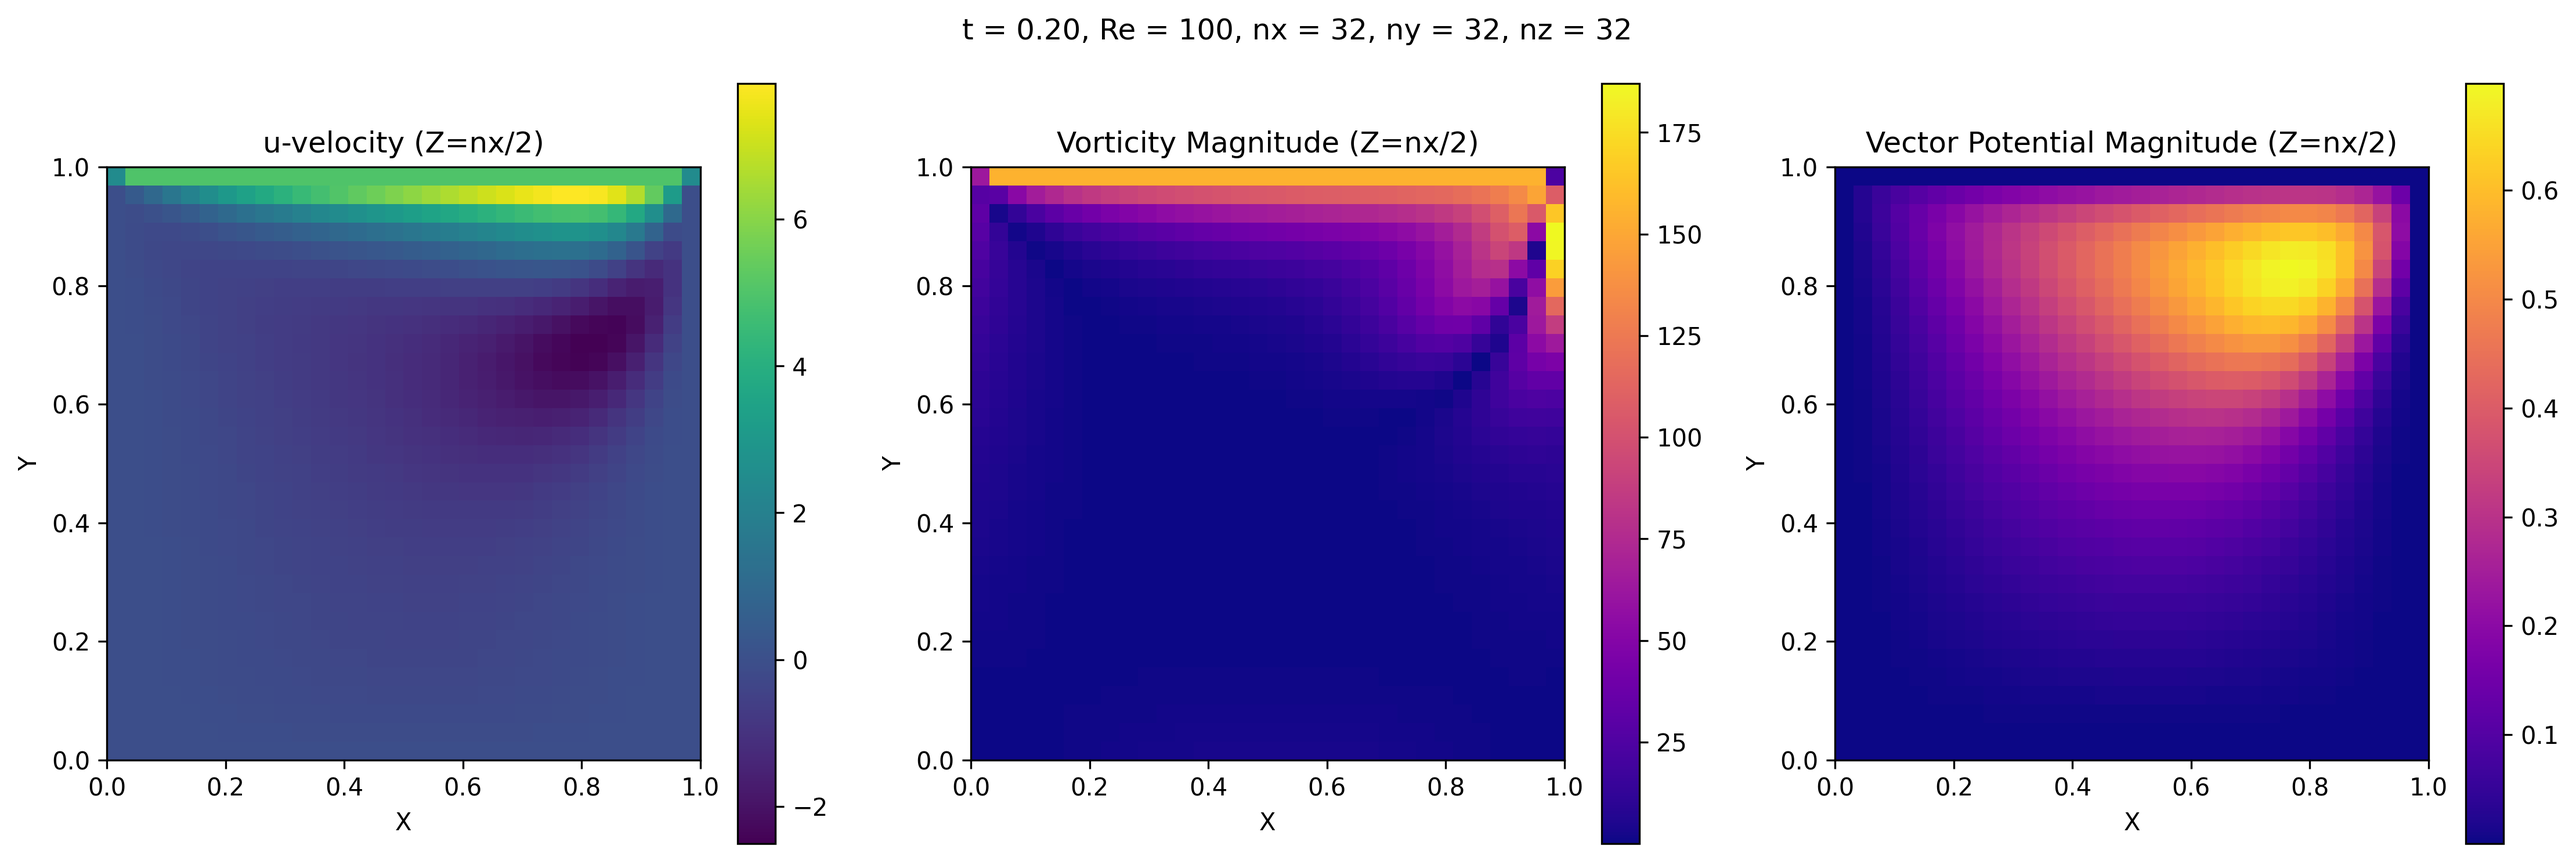
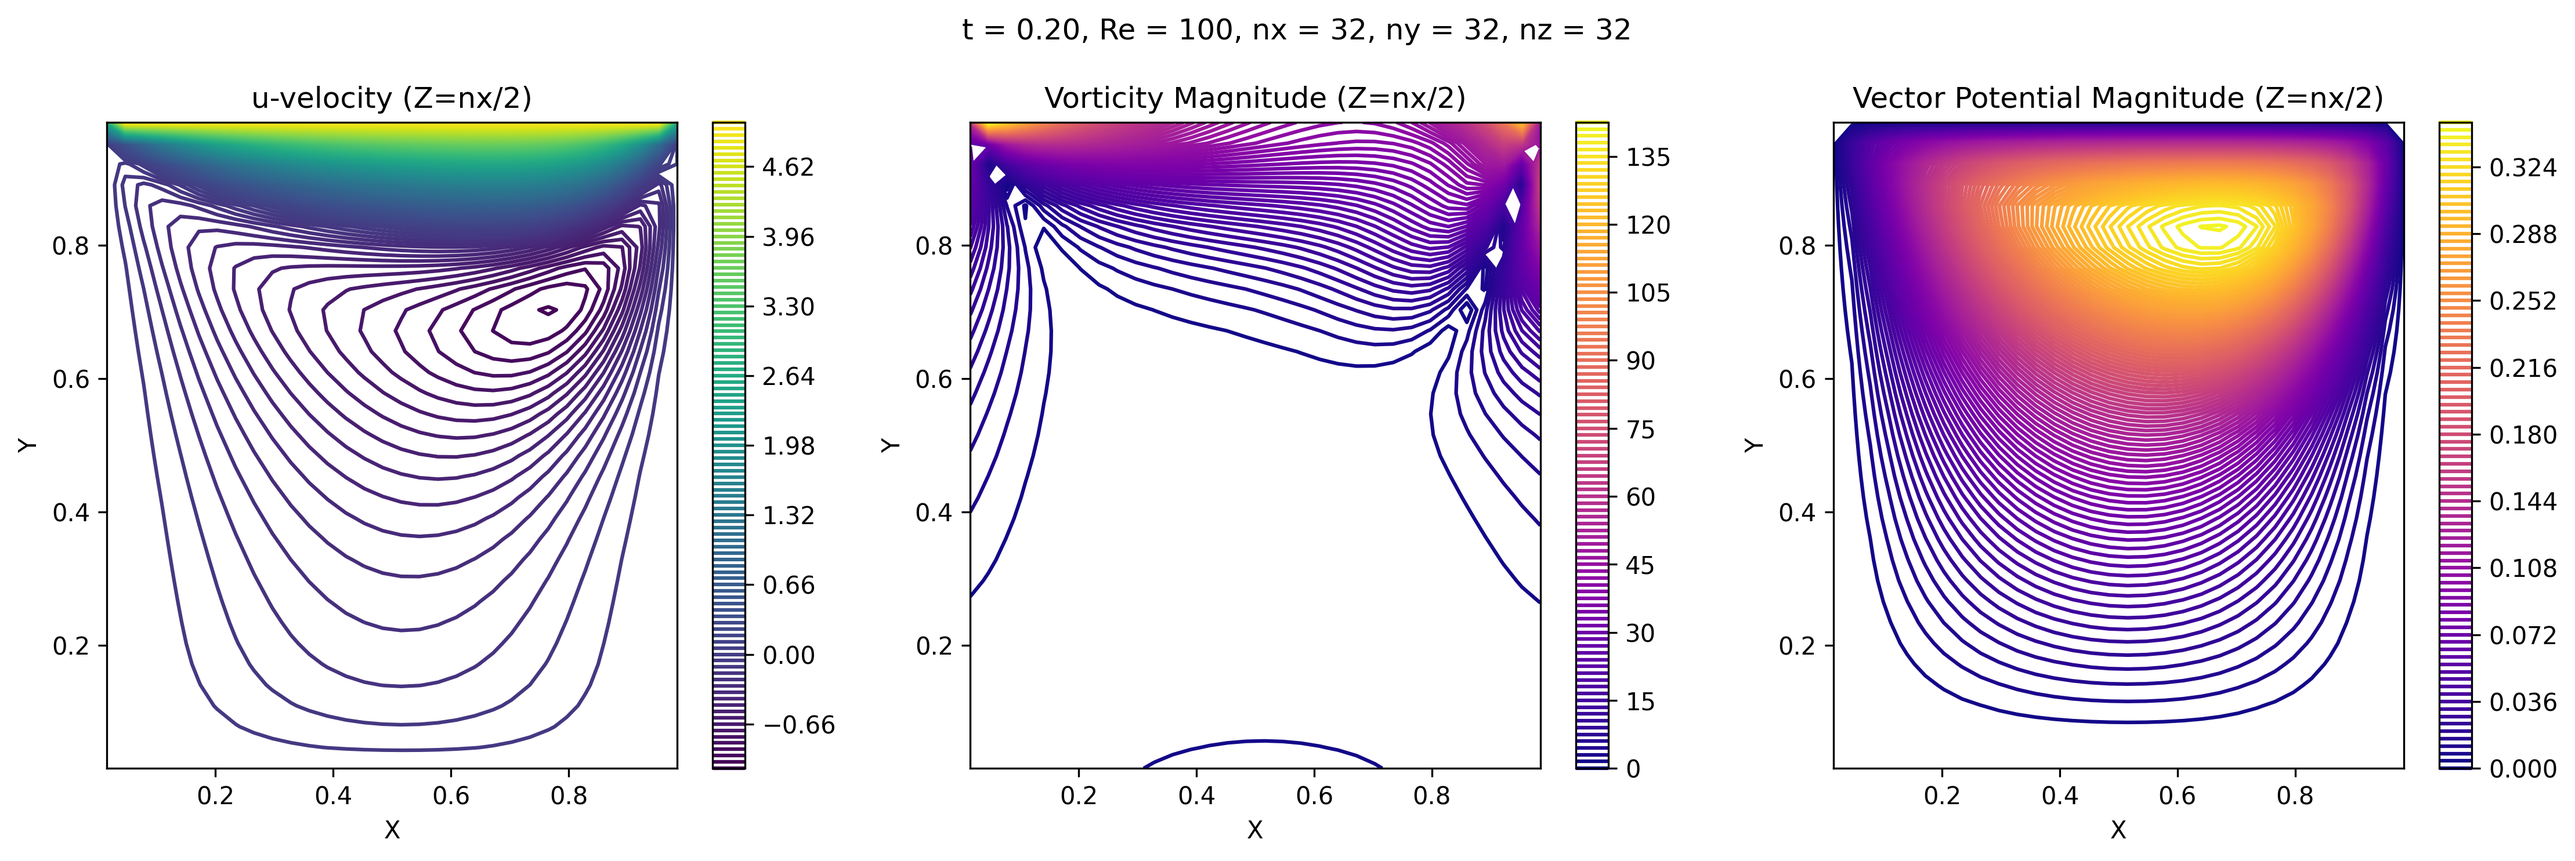
Essential bug fixed - u0 in vorticity update

diff --git a/vector_psi_omega/vector_psi_omega.py b/vector_psi_omega/vector_psi_omega.py
@@ -536,7 +536,7 @@ while t < tend:
             ψz[i,j,nz-1] = ψz[i,j,nz-2]
 
     for i in range(1,nx-1):
-        for k in range(1,ny-1):
+        for k in range(1,nz-1):
             ψx[i,0,k] = 0.0                # Bottom wall
             ψy[i,0,k] = ψy[i,1,k]   
             ψz[i,0,k] = 0.0
@@ -876,7 +876,7 @@ while t < tend:
             Ωz[i,0,k] = -u[i,1,k]/dy
             Ωx[i,ny-1,k] = -w[i,ny-2,k]/dy                     # Top wall
             Ωy[i,ny-1,k] = 0.0
-            Ωz[i,ny-1,k] = -(Ut - u0[i,ny-2,k])/dy
+            Ωz[i,ny-1,k] = -(Ut - u[i,ny-2,k])/dy
 
     # Vorticity edge points
     for j in range(1,ny-1):
@@ -1018,7 +1018,8 @@ plt.figure(figsize=(total_width, subplot_height))
 
 # Subplot 1: u-velocity
 plt.subplot(1, 3, 1)
-plt.imshow(u[:, :, mid].T, origin='lower', extent=[0, Lx, 0, Ly], cmap='viridis', aspect='equal')
+#plt.imshow(u[:, :, mid].T, origin='lower', extent=[0, Lx, 0, Ly], cmap='viridis', aspect='equal')
+plt.contour(u[:, :, mid].T, origin='lower', extent=[0, Lx, 0, Ly], cmap='viridis',levels=100)
 plt.title('u-velocity (Z=nx/2)')
 plt.colorbar()
 plt.xlabel('X')
@@ -1027,7 +1028,8 @@ plt.ylabel('Y')
 # Subplot 2: Vorticity Magnitude
 plt.subplot(1, 3, 2)
 vort_mag = np.sqrt(Ωx**2 + Ωy**2 + Ωz**2)
-plt.imshow(vort_mag[:, :, mid].T, origin='lower', extent=[0, Lx, 0, Ly], cmap='plasma', aspect='equal')
+#plt.imshow(vort_mag[:, :, mid].T, origin='lower', extent=[0, Lx, 0, Ly], cmap='plasma', aspect='equal')
+plt.contour(vort_mag[:, :, mid].T, origin='lower', extent=[0, Lx, 0, Ly], cmap='plasma',levels=100)
 plt.title('Vorticity Magnitude (Z=nx/2)')
 plt.colorbar()
 plt.xlabel('X')
@@ -1036,7 +1038,8 @@ plt.ylabel('Y')
 # Subplot 3: Vector Potential Magnitude
 plt.subplot(1, 3, 3)
 psi_mag = np.sqrt(ψx**2 + ψy**2 + ψz**2)
-plt.imshow(psi_mag[:, :, mid].T, origin='lower', extent=[0, Lx, 0, Ly], cmap='plasma', aspect='equal')
+#plt.imshow(psi_mag[:, :, mid].T, origin='lower', extent=[0, Lx, 0, Ly], cmap='plasma', aspect='equal')
+plt.contour(psi_mag[:, :, mid].T, origin='lower', extent=[0, Lx, 0, Ly], cmap='plasma',levels=100)
 plt.title('Vector Potential Magnitude (Z=nx/2)')
 plt.colorbar()
 plt.xlabel('X')
@@ -1048,49 +1051,49 @@ plt.tight_layout()
 #plt.savefig('YX.png', dpi=300)
 plt.savefig(os.path.join(save_dir, f'T{t:.1g}_RE{Re:.0f}_YX.png'), dpi=300, bbox_inches='tight')
 
-#-------------------
-# ZY Centreplane
-#-------------------
+# #-------------------
+# # ZY Centreplane
+# #-------------------
 
-mid = nx // 2
-aspect_ratio = Lx / Ly
-subplot_height = 5
-subplot_width = subplot_height * aspect_ratio
-total_width = 3 * subplot_width
+# mid = nx // 2
+# aspect_ratio = Lx / Ly
+# subplot_height = 5
+# subplot_width = subplot_height * aspect_ratio
+# total_width = 3 * subplot_width
 
-plt.figure(figsize=(total_width, subplot_height))
+# plt.figure(figsize=(total_width, subplot_height))
 
-# Subplot 1: u-velocity
-plt.subplot(1, 3, 1)
-plt.imshow(u[mid, :, :], origin='lower', extent=[0, Lz, 0, Ly], cmap='viridis', aspect='equal')
-plt.title('u-velocity (X=nx/2)')
-plt.colorbar()
-plt.xlabel('Z')
-plt.ylabel('Y')
+# # Subplot 1: u-velocity
+# plt.subplot(1, 3, 1)
+# plt.imshow(u[mid, :, :], origin='lower', extent=[0, Lz, 0, Ly], cmap='viridis', aspect='equal')
+# plt.title('u-velocity (X=nx/2)')
+# plt.colorbar()
+# plt.xlabel('Z')
+# plt.ylabel('Y')
 
-# Subplot 2: Vorticity Magnitude
-plt.subplot(1, 3, 2)
-vort_mag = np.sqrt(Ωx**2 + Ωy**2 + Ωz**2)
-plt.imshow(vort_mag[mid, :, :], origin='lower', extent=[0, Lz, 0, Ly], cmap='plasma', aspect='equal')
-plt.title('Vorticity Magnitude (X=nx/2)')
-plt.colorbar()
-plt.xlabel('Z')
-plt.ylabel('Y')
+# # Subplot 2: Vorticity Magnitude
+# plt.subplot(1, 3, 2)
+# vort_mag = np.sqrt(Ωx**2 + Ωy**2 + Ωz**2)
+# plt.imshow(vort_mag[mid, :, :], origin='lower', extent=[0, Lz, 0, Ly], cmap='plasma', aspect='equal')
+# plt.title('Vorticity Magnitude (X=nx/2)')
+# plt.colorbar()
+# plt.xlabel('Z')
+# plt.ylabel('Y')
 
-# Subplot 3: Vector Potential Magnitude
-plt.subplot(1, 3, 3)
-psi_mag = np.sqrt(ψx**2 + ψy**2 + ψz**2)
-plt.imshow(psi_mag[mid, :, :], origin='lower', extent=[0, Lz, 0, Ly], cmap='plasma', aspect='equal')
-plt.title('Vector Potential Magnitude (X=nx/2)')
-plt.colorbar()
-plt.xlabel('Z')
-plt.ylabel('Y')
+# # Subplot 3: Vector Potential Magnitude
+# plt.subplot(1, 3, 3)
+# psi_mag = np.sqrt(ψx**2 + ψy**2 + ψz**2)
+# plt.imshow(psi_mag[mid, :, :], origin='lower', extent=[0, Lz, 0, Ly], cmap='plasma', aspect='equal')
+# plt.title('Vector Potential Magnitude (X=nx/2)')
+# plt.colorbar()
+# plt.xlabel('Z')
+# plt.ylabel('Y')
 
-plt.suptitle(f't = {t:.2f}, Re = {Re:.0f}, nx = {nx}, ny = {ny}, nz = {nz}')
+# plt.suptitle(f't = {t:.2f}, Re = {Re:.0f}, nx = {nx}, ny = {ny}, nz = {nz}')
 
-plt.tight_layout()
-#plt.savefig('ZY.png', dpi=300)
-plt.savefig(os.path.join(save_dir, f'T{t:.1g}_RE{Re:.0f}_ZY.png'), dpi=300, bbox_inches='tight')
+# plt.tight_layout()
+# #plt.savefig('ZY.png', dpi=300)
+# plt.savefig(os.path.join(save_dir, f'T{t:.1g}_RE{Re:.0f}_ZY.png'), dpi=300, bbox_inches='tight')
 
 
 
